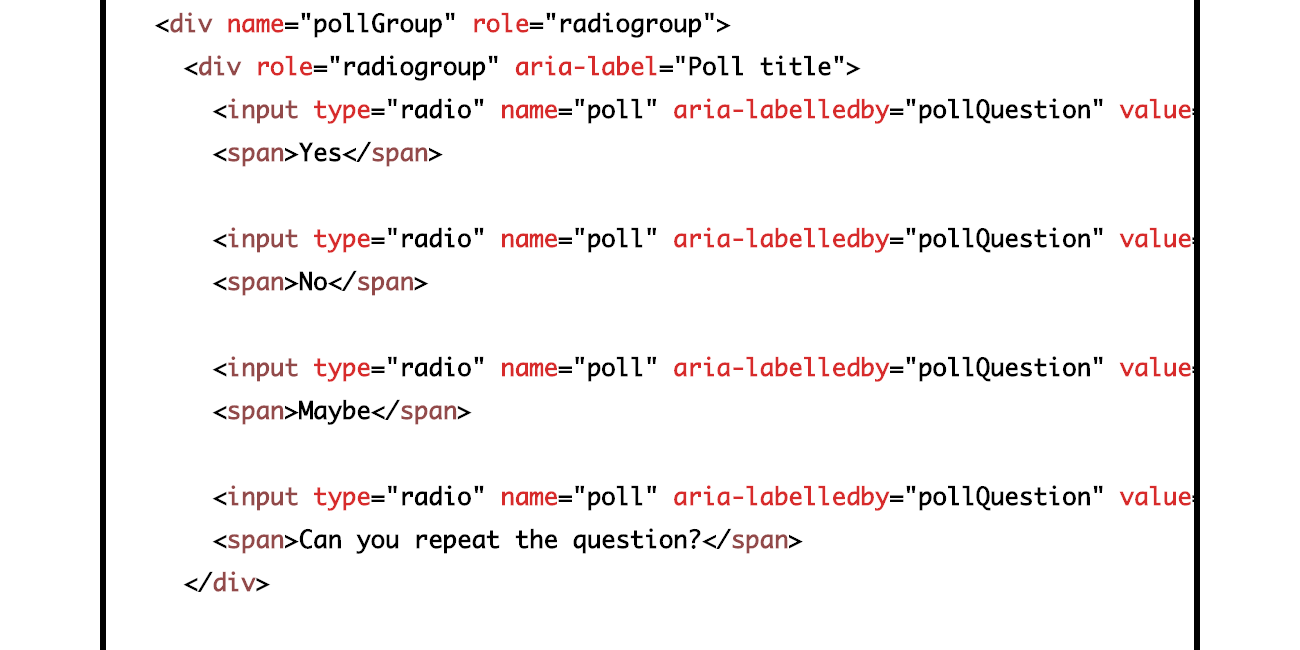
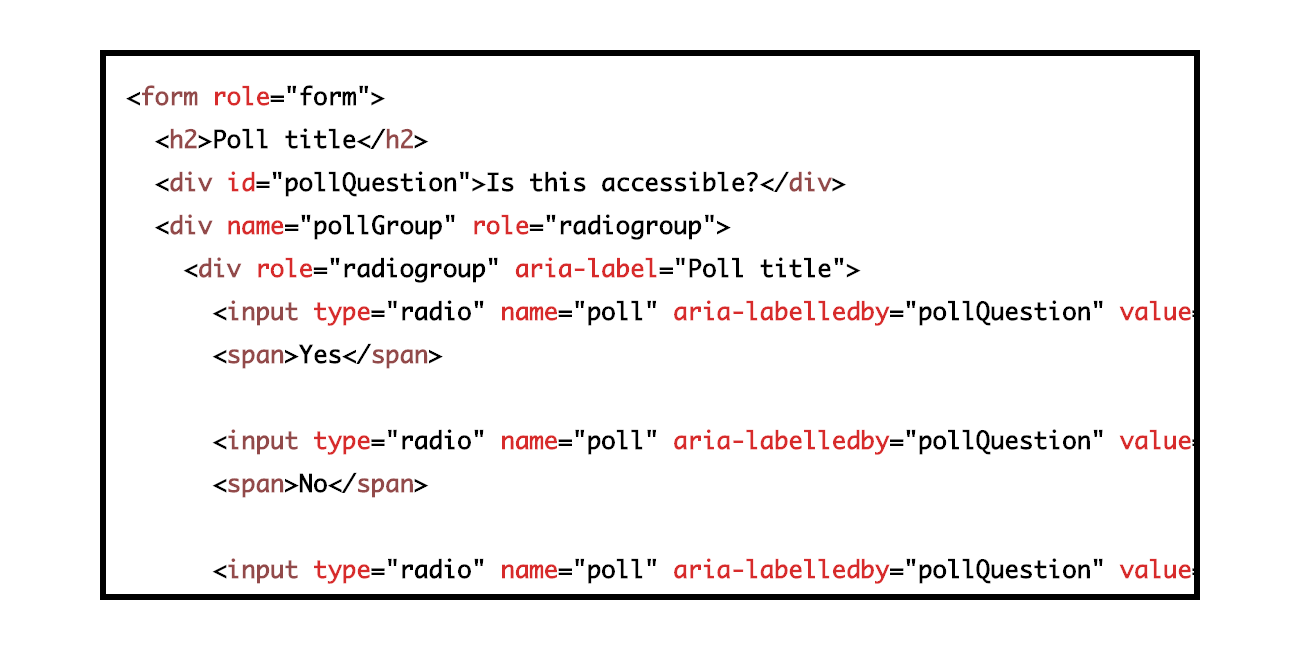
Improve screenshots of large code examples

diff --git a/hell/assets/style.css b/hell/assets/style.css
@@ -447,6 +447,9 @@ blockquote {
 
 .screenshot pre[class*="language-"] {
   white-space: normal !important;
+  max-height: 550px;
+  overflow: auto;
+  margin: 0;
 }
 
 .screenshot .bad {

diff --git a/hell/entries/alt-aria-alt.md b/hell/entries/alt-aria-alt.md
@@ -1,7 +1,8 @@
 ---
 title: "#16 alt, no wait…, aria-label, no wait…, alt"
+seo_title: "#16 alt, no aria-label, no alt"
 date: 2020-02-09T07:00:00
-permalink: /alt-no-aria-label-no-alt/index.html
+permalink: /{{ seo_title | slug }}/index.html
 layout: layouts/entry.njk
 author: spell
 badcode: '<a tabindex="0">
